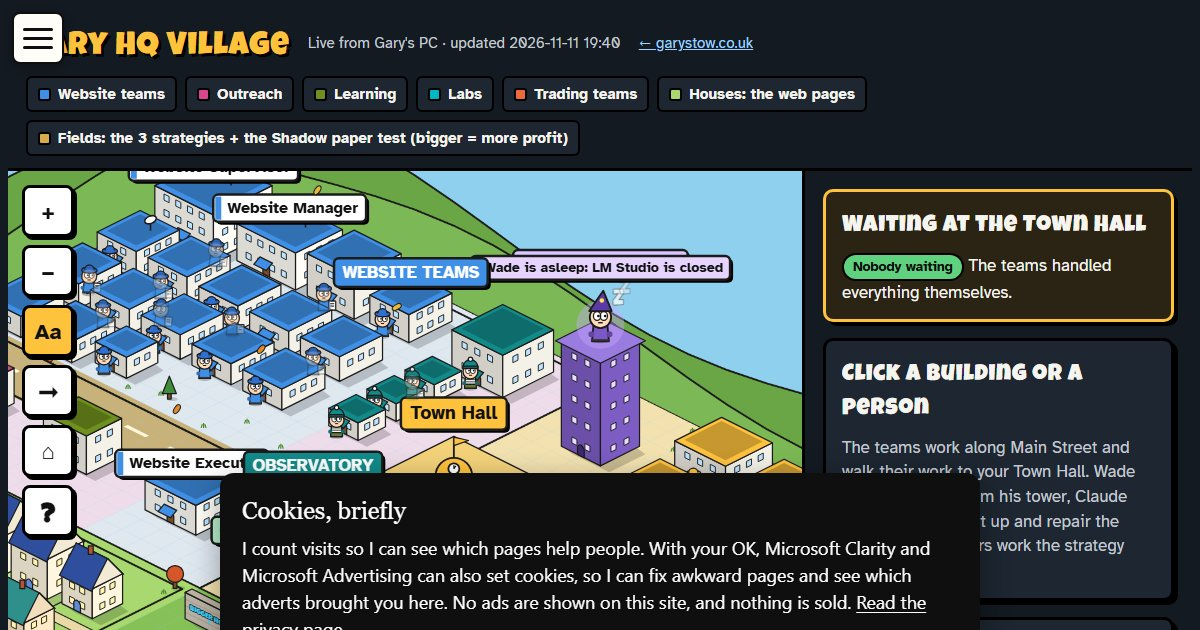
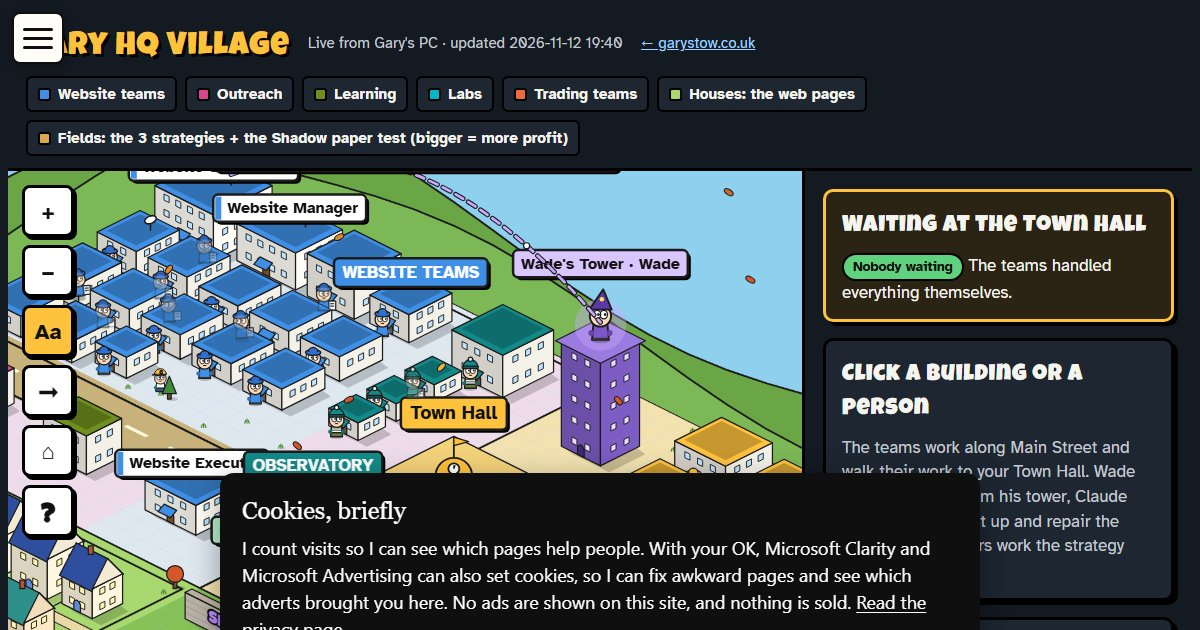
Village: refresh the public data (2026-11-12 19:40)

diff --git a/agents/map/index.html b/agents/map/index.html
@@ -112,7 +112,7 @@ section.map-sky{background:#070a12;color:#f4f6fb;padding:2rem 4rem 2.5rem;border
   <div class="map-stat"><b>79</b><span>Agents running</span></div>
   <div class="map-stat"><b>135</b><span>Hand-offs between them</span></div>
   <div class="map-stat"><b>4</b><span>Teams pulling toward 2 goals</span></div>
-  <div class="map-stat bad"><b>2</b><span>Problems right now</span></div>
+  <div class="map-stat ok"><b>0</b><span>Problems right now: all green</span></div>
 </div>
 
 <!-- THE SPHERE -->
@@ -177,7 +177,7 @@ section.map-sky{background:#070a12;color:#f4f6fb;padding:2rem 4rem 2.5rem;border
     <span class="section-num">02</span>
     <h2>Every agent on the map</h2>
   </div>
-  <p style="margin-bottom:1.5rem;max-width:65ch">Last checked 11 Nov 2026, 19:35. This public copy refreshes every evening.</p>
+  <p style="margin-bottom:1.5rem;max-width:65ch">Last checked 12 Nov 2026, 19:35. This public copy refreshes every evening.</p>
   <details open>
     <summary>The two goals (2)</summary>
     <dl>
